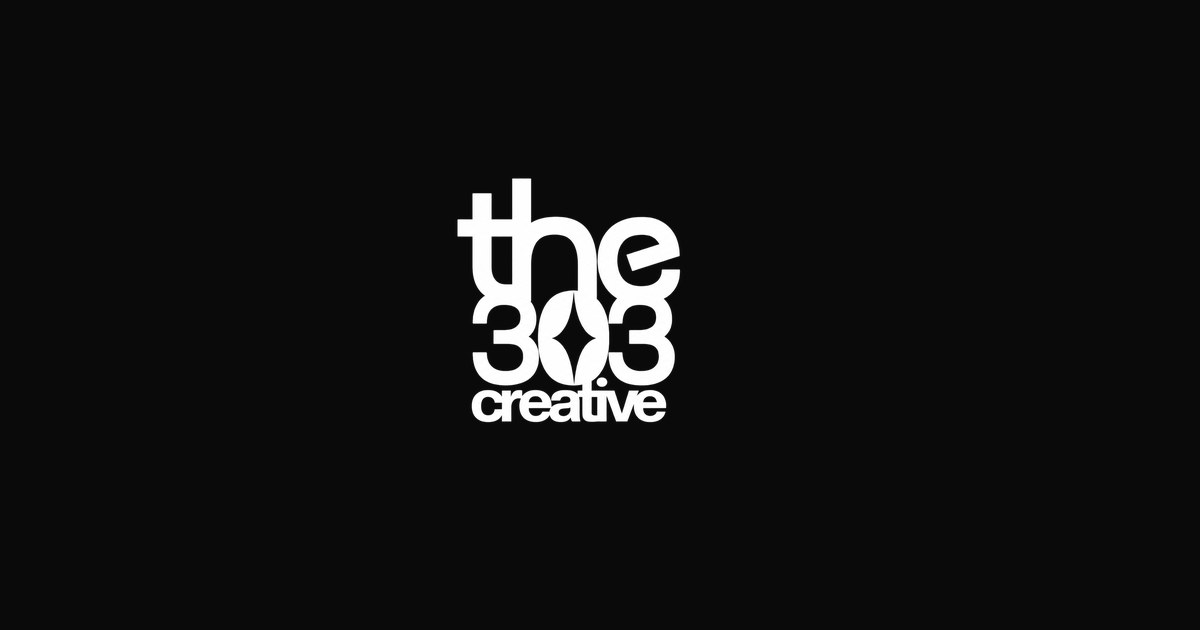
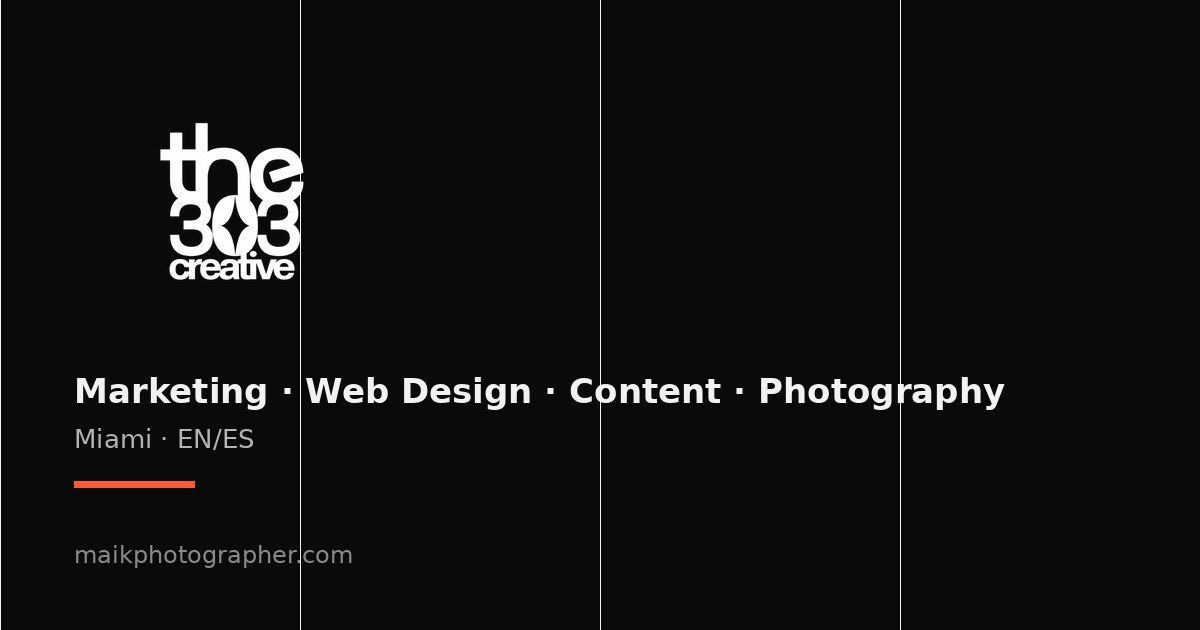
ok

diff --git a/public/client-structure.dc.html b/public/client-structure.dc.html
@@ -3,17 +3,17 @@
 <head>
 <meta charset="utf-8">
 <meta name="viewport" content="width=device-width, initial-scale=1">
-<title>Structure Men´s Studio — Content & Editorial in Miami | The303</title>
-<meta name="description" content="Case study: monthly content and Instagram editorials for Structure Men´s Studio, a premium grooming studio in Brickell, Miami.">
-<meta name="keywords" content="grooming content Miami, barbershop content Miami, editorial content, Brickell">
+<title>Structure Men´s Studio — #1 Scissor Cuts in Brickell (Case Study) | The303</title>
+<meta name="description" content="How The303 made Structure Men´s Studio the #1 studio for scissor cuts in Brickell — ranked first on Google and recommended by AI assistants — with brand content + local SEO.">
+<meta name="keywords" content="scissor cut Brickell, cortes con tijera Brickell, best barber Brickell, grooming Brickell Miami, mens grooming Miami">
 <meta name="robots" content="index,follow">
 <link rel="canonical" href="https://www.maikphotographer.com/client-structure.dc.html">
 <meta name="theme-color" content="#0A0A0A">
 <link rel="icon" type="image/png" sizes="32x32" href="/assets/brand/favicon-32.png">
 <link rel="icon" type="image/png" sizes="512x512" href="/assets/brand/favicon-512.png">
 <link rel="apple-touch-icon" href="/assets/brand/apple-touch-icon.png">
-<meta property="og:title" content="Structure Men´s Studio — Content & Editorial in Miami | The303">
-<meta property="og:description" content="Case study: monthly content and Instagram editorials for Structure Men´s Studio, a premium grooming studio in Brickell, Miami.">
+<meta property="og:title" content="Structure Men´s Studio — #1 Scissor Cuts in Brickell (Case Study) | The303">
+<meta property="og:description" content="How The303 made Structure Men´s Studio the #1 studio for scissor cuts in Brickell — ranked first on Google and recommended by AI assistants — with brand content + local SEO.">
 <meta property="og:type" content="article">
 <meta property="og:url" content="https://www.maikphotographer.com/client-structure.dc.html">
 <meta property="og:image" content="https://www.maikphotographer.com/assets/work/structure/cover.jpg">
@@ -46,7 +46,7 @@ a:hover{color:#FF5A36}
 <section data-screen-label="00 Portada" style="position:relative;z-index:1;padding:32px clamp(16px,3vw,48px) 0">
   <div style="display:flex;justify-content:space-between;gap:12px;font-family:'IBM Plex Mono',monospace;font-size:10px;letter-spacing:.08em;text-transform:uppercase;color:#8A8A87;margin-bottom:28px"><span>[00] — Caso / Contenido · Editorial</span><span>2026</span></div>
   <h1 style="margin:0;font-weight:600;font-stretch:112%;font-size:clamp(46px,14cqw,176px);line-height:.86;letter-spacing:-.045em;text-transform:uppercase">Structure<br><span style="color:#5C5C5A">Men´s Studio.</span></h1>
-  <div style="margin-top:20px;font-family:'IBM Plex Mono',monospace;font-size:12px;color:#FF5A36">Grooming masculino · Brickell, Miami</div>
+  <div style="margin-top:20px;font-family:'IBM Plex Mono',monospace;font-size:12px;color:#FF5A36">Grooming masculino · Brickell · #1 en cortes a tijera</div>
   <div style="display:grid;grid-template-columns:repeat(auto-fit,minmax(min(50%,160px),1fr));margin-top:28px;border-top:1px solid rgba(242,242,240,.2)">
     <div style="padding:12px 12px 14px 0;border-bottom:1px solid rgba(242,242,240,.14)"><div style="font-family:'IBM Plex Mono',monospace;font-size:9px;letter-spacing:.08em;text-transform:uppercase;color:#8A8A87">Sector</div><div style="margin-top:6px;font-size:15px;font-weight:500">Grooming / Barbería</div></div>
     <div style="padding:12px 12px 14px 0;border-bottom:1px solid rgba(242,242,240,.14)"><div style="font-family:'IBM Plex Mono',monospace;font-size:9px;letter-spacing:.08em;text-transform:uppercase;color:#8A8A87">Ciudad</div><div style="margin-top:6px;font-size:15px;font-weight:500">Brickell, Miami</div></div>
@@ -69,12 +69,31 @@ a:hover{color:#FF5A36}
     </div>
     <div style="border-top:1px solid rgba(242,242,240,.2);padding-top:14px">
       <div style="font-family:'IBM Plex Mono',monospace;font-size:10px;letter-spacing:.08em;text-transform:uppercase;color:#8A8A87">B — Respuesta</div>
-      <p style="margin:12px 0 0;font-size:17px;line-height:1.45;text-wrap:pretty">Montamos su producción de contenido mensual — fotografía del trabajo a tijera en acción — y una línea de editoriales de marca para Instagram con dirección de arte propia.</p>
+      <p style="margin:12px 0 0;font-size:17px;line-height:1.45;text-wrap:pretty">Combinamos dos estrategias: producción de <strong>contenido de marca</strong> mensual (fotografía del trabajo a tijera + editoriales para Instagram con dirección de arte) y una <strong>estrategia SEO local + AEO</strong> para su web. El resultado: Structure se posicionó como el <strong>#1 en cortes a tijera en Brickell</strong> — tanto en Google como en los asistentes de IA.</p>
     </div>
   </div>
 </section>
 
-<section data-screen-label="02 Alcance" style="position:relative;z-index:1;padding:88px clamp(16px,3vw,48px) 0">
+<section data-screen-label="Resultado" style="position:relative;z-index:1;padding:88px clamp(16px,3vw,48px) 0">
+  <div style="font-family:'IBM Plex Mono',monospace;font-size:10px;letter-spacing:.08em;text-transform:uppercase;color:#FF5A36;margin-bottom:16px">[R] Resultado ●</div>
+  <h2 style="margin:0 0 28px;font-weight:600;font-stretch:112%;font-size:clamp(36px,10cqw,120px);line-height:.88;letter-spacing:-.04em;text-transform:uppercase">#1 en Brickell<br><span style="color:#5C5C5A">cortes a tijera.</span></h2>
+  <div style="display:grid;grid-template-columns:repeat(auto-fit,minmax(min(100%,220px),1fr));border-top:1px solid rgba(242,242,240,.2);border-left:1px solid rgba(242,242,240,.14)">
+    <div style="padding:22px 16px 24px;border-right:1px solid rgba(242,242,240,.14);border-bottom:1px solid rgba(242,242,240,.14)"><div style="font-weight:600;font-stretch:112%;font-size:clamp(44px,12cqw,96px);line-height:.9;letter-spacing:-.04em;color:#FF5A36">#1</div><div style="font-family:'IBM Plex Mono',monospace;font-size:10px;letter-spacing:.06em;text-transform:uppercase;color:#8A8A87;margin-top:10px">Google — "cortes con tijera Brickell"</div></div>
+    <div style="padding:22px 16px 24px;border-right:1px solid rgba(242,242,240,.14);border-bottom:1px solid rgba(242,242,240,.14)"><div style="font-weight:600;font-stretch:112%;font-size:clamp(44px,12cqw,96px);line-height:.9;letter-spacing:-.04em;color:#FF5A36">#1</div><div style="font-family:'IBM Plex Mono',monospace;font-size:10px;letter-spacing:.06em;text-transform:uppercase;color:#8A8A87;margin-top:10px">Recomendado por IA · ChatGPT · Gemini · Claude · Perplexity</div></div>
+    <div style="padding:22px 16px 24px;border-right:1px solid rgba(242,242,240,.14);border-bottom:1px solid rgba(242,242,240,.14)"><div style="font-weight:600;font-stretch:112%;font-size:clamp(44px,12cqw,96px);line-height:.9;letter-spacing:-.04em">Mensual</div><div style="font-family:'IBM Plex Mono',monospace;font-size:10px;letter-spacing:.06em;text-transform:uppercase;color:#8A8A87;margin-top:10px">Sistema de contenido de marca activo</div></div>
+  </div>
+  <p style="margin:16px 0 0;font-size:15px;line-height:1.5;color:#B4B4B0;max-width:640px">Posicionamiento logrado con la estrategia de <strong style="color:#F2F2F0">contenido de marca + SEO local / AEO</strong> de The303. Cuando alguien busca dónde cortarse a tijera en Brickell — en Google o preguntándole a una IA — Structure aparece primero.</p>
+</section>
+
+<section data-screen-label="02 Estrategia" style="position:relative;z-index:1;padding:88px clamp(16px,3vw,48px) 0">
+  <div style="font-family:'IBM Plex Mono',monospace;font-size:10px;letter-spacing:.08em;text-transform:uppercase;color:#8A8A87;margin-bottom:20px">[02] Cómo lo hicimos •</div>
+  <div style="display:grid;grid-template-columns:repeat(auto-fit,minmax(min(100%,300px),1fr));gap:24px">
+    <div style="border-top:1px solid rgba(242,242,240,.2);padding-top:14px"><div style="font-family:'IBM Plex Mono',monospace;font-size:10px;letter-spacing:.08em;text-transform:uppercase;color:#8A8A87">A — Contenido de marca</div><p style="margin:12px 0 0;font-size:16px;line-height:1.5">Producción mensual: fotografía del trabajo a tijera y editoriales para Instagram con dirección de arte. Contenido constante que construye autoridad de marca y da material para publicar.</p></div>
+    <div style="border-top:1px solid rgba(242,242,240,.2);padding-top:14px"><div style="font-family:'IBM Plex Mono',monospace;font-size:10px;letter-spacing:.08em;text-transform:uppercase;color:#8A8A87">B — SEO local + AEO</div><p style="margin:12px 0 0;font-size:16px;line-height:1.5">Web optimizada por intención, contenido experto y señales de entidad para que Google — y los asistentes de IA — reconozcan a Structure como el estudio de cortes a tijera de referencia en Brickell.</p></div>
+  </div>
+</section>
+
+<section data-screen-label="03 Alcance" style="position:relative;z-index:1;padding:88px clamp(16px,3vw,48px) 0">
   <div style="font-family:'IBM Plex Mono',monospace;font-size:10px;letter-spacing:.08em;text-transform:uppercase;color:#8A8A87;margin-bottom:16px">[02] Alcance •</div>
   <div style="display:flex;flex-direction:column;border-top:1px solid rgba(242,242,240,.2)">
     <div style="display:grid;grid-template-columns:48px minmax(0,1fr) auto;gap:12px;align-items:baseline;padding:16px 0;border-bottom:1px solid rgba(242,242,240,.14)"><span style="font-family:'IBM Plex Mono',monospace;font-size:10px;color:#8A8A87">01.</span><span style="font-weight:600;font-stretch:112%;font-size:clamp(22px,5cqw,40px);letter-spacing:-.03em;text-transform:uppercase;line-height:1">Contenido mensual</span><span style="font-family:'IBM Plex Mono',monospace;font-size:10px;color:#8A8A87">•</span></div>

diff --git a/public/Work.dc.html b/public/Work.dc.html
@@ -16,7 +16,7 @@
 <meta property="og:description" content="Real projects for Miami brands and businesses — branding, web, content and photography, with the problem, the work and the deliverables for each.">
 <meta property="og:type" content="website">
 <meta property="og:url" content="https://www.maikphotographer.com/Work.dc.html">
-<meta property="og:image" content="https://www.maikphotographer.com/assets/backgrounds/31_fondo_ia1_oscuro_principal.jpg">
+<meta property="og:image" content="https://www.maikphotographer.com/assets/brand/og-the303.jpg">
 <meta name="twitter:card" content="summary_large_image">
 <script src="./support.js"></script>
 </head>
@@ -116,11 +116,11 @@ const SHOTS = [['editorial','Warm light'],['portrait','Golden circle'],['lifesty
 const T = {
 en:{eyebrow:'Work / Cases',h1a:'Work that',h1b:'books clients.',intro:'Each case is measured by what it produced for the business: leads, bookings, sales. Metrics are published only once verified with the client.',
 cases:'Cases',imgPending:'Image pending',yours:'Your brand here',pendingNote:'',
-cs:[{name:"D´Homes",meta:'Real estate · Branding · Miami',tags:['Portraits','Branding','Editorial'],href:'client-dhomes.dc.html',img:'/assets/work/dhomes/cover.jpg'},{name:'Good Trip',meta:'Travel · Branding + Web · LATAM',tags:['Branding','Web','Content'],href:'client-good-trip.dc.html',img:'/assets/work/good-trip/cover.jpg'},{name:'Structure',meta:'Grooming · Content · Miami',tags:['Content','Editorial','Photo'],href:'client-structure.dc.html',img:'/assets/work/structure/cover.jpg'},{name:'Moses',meta:'Grooming · Web design · Miami',tags:['Web','Design','Branding'],href:'client-moses.dc.html',img:'/assets/work/moses/cover.jpg'},{name:'Sazón Latino',meta:'Content creation · Photo · Miami',tags:['Content creation','Photo','Editorial'],href:'client-sazon-latino.dc.html',img:'/assets/work/sazon-latino/cover.jpg'},{name:'Titi & Maddi',meta:'Music · Session + BTS · Miami',tags:['Music','Session','Content'],href:'client-titi-maddi.dc.html',img:'/assets/work/titi-maddi/cover.jpg'},{name:'Monrowelle',meta:'Retail · Catalog + Content · Perú',tags:['Content','Catalog','Product'],href:'client-monrowelle.dc.html',img:'/assets/work/monrowelle/cover.jpg'},{name:'Sculpt x Strength',meta:'Fitness · Content · Miami',tags:['Fitness','Lifestyle','Content'],href:'client-sculpt.dc.html',img:'/assets/work/sculpt/cover.jpg'}],
+cs:[{name:'Structure',meta:'Grooming · #1 scissor cuts in Brickell',tags:['#1 in Brickell','Content','SEO'],href:'client-structure.dc.html',img:'/assets/work/structure/cover.jpg'},{name:"D´Homes",meta:'Real estate · Branding · Miami',tags:['Portraits','Branding','Editorial'],href:'client-dhomes.dc.html',img:'/assets/work/dhomes/cover.jpg'},{name:'Good Trip',meta:'Travel · Branding + Web · LATAM',tags:['Branding','Web','Content'],href:'client-good-trip.dc.html',img:'/assets/work/good-trip/cover.jpg'},{name:'Moses',meta:'Grooming · Web design · Miami',tags:['Web','Design','Branding'],href:'client-moses.dc.html',img:'/assets/work/moses/cover.jpg'},{name:'Sazón Latino',meta:'Content creation · Photo · Miami',tags:['Content creation','Photo','Editorial'],href:'client-sazon-latino.dc.html',img:'/assets/work/sazon-latino/cover.jpg'},{name:'Titi & Maddi',meta:'Music · Session + BTS · Miami',tags:['Music','Session','Content'],href:'client-titi-maddi.dc.html',img:'/assets/work/titi-maddi/cover.jpg'},{name:'Monrowelle',meta:'Retail · Catalog + Content · Perú',tags:['Content','Catalog','Product'],href:'client-monrowelle.dc.html',img:'/assets/work/monrowelle/cover.jpg'},{name:'Sculpt x Strength',meta:'Fitness · Content · Miami',tags:['Fitness','Lifestyle','Content'],href:'client-sculpt.dc.html',img:'/assets/work/sculpt/cover.jpg'}],
 kpiNames:[],gallery:'Gallery',gA:'Frames',gB:'in color.',filters:{all:'All',portrait:'Portrait',editorial:'Editorial',lifestyle:'Lifestyle'}},
 es:{eyebrow:'Trabajo / Casos',h1a:'Trabajo que',h1b:'consigue clientes.',intro:'Cada caso se mide por lo que produjo para el negocio: leads, reservas, ventas. Las métricas se publican solo cuando el cliente las verifica.',
 cases:'Casos',imgPending:'Imagen pendiente',yours:'Tu marca aquí',pendingNote:'',
-cs:[{name:"D´Homes",meta:'Real estate · Branding · Miami',tags:['Retratos','Branding','Editorial'],href:'client-dhomes.dc.html',img:'/assets/work/dhomes/cover.jpg'},{name:'Good Trip',meta:'Viajes · Branding + Web · LATAM',tags:['Branding','Web','Contenido'],href:'client-good-trip.dc.html',img:'/assets/work/good-trip/cover.jpg'},{name:'Structure',meta:'Grooming · Contenido · Miami',tags:['Contenido','Editorial','Foto'],href:'client-structure.dc.html',img:'/assets/work/structure/cover.jpg'},{name:'Moses',meta:'Grooming · Diseño web · Miami',tags:['Web','Diseño','Branding'],href:'client-moses.dc.html',img:'/assets/work/moses/cover.jpg'},{name:'Sazón Latino',meta:'Creación de contenido · Foto · Miami',tags:['Creación de contenido','Foto','Editorial'],href:'client-sazon-latino.dc.html',img:'/assets/work/sazon-latino/cover.jpg'},{name:'Titi & Maddi',meta:'Música · Sesión + BTS · Miami',tags:['Música','Sesión','Contenido'],href:'client-titi-maddi.dc.html',img:'/assets/work/titi-maddi/cover.jpg'},{name:'Monrowelle',meta:'Retail · Catálogo + Contenido · Perú',tags:['Contenido','Catálogo','Producto'],href:'client-monrowelle.dc.html',img:'/assets/work/monrowelle/cover.jpg'},{name:'Sculpt x Strength',meta:'Fitness · Contenido · Miami',tags:['Fitness','Lifestyle','Contenido'],href:'client-sculpt.dc.html',img:'/assets/work/sculpt/cover.jpg'}],
+cs:[{name:'Structure',meta:'Grooming · #1 cortes a tijera en Brickell',tags:['#1 en Brickell','Contenido','SEO'],href:'client-structure.dc.html',img:'/assets/work/structure/cover.jpg'},{name:"D´Homes",meta:'Real estate · Branding · Miami',tags:['Retratos','Branding','Editorial'],href:'client-dhomes.dc.html',img:'/assets/work/dhomes/cover.jpg'},{name:'Good Trip',meta:'Viajes · Branding + Web · LATAM',tags:['Branding','Web','Contenido'],href:'client-good-trip.dc.html',img:'/assets/work/good-trip/cover.jpg'},{name:'Moses',meta:'Grooming · Diseño web · Miami',tags:['Web','Diseño','Branding'],href:'client-moses.dc.html',img:'/assets/work/moses/cover.jpg'},{name:'Sazón Latino',meta:'Creación de contenido · Foto · Miami',tags:['Creación de contenido','Foto','Editorial'],href:'client-sazon-latino.dc.html',img:'/assets/work/sazon-latino/cover.jpg'},{name:'Titi & Maddi',meta:'Música · Sesión + BTS · Miami',tags:['Música','Sesión','Contenido'],href:'client-titi-maddi.dc.html',img:'/assets/work/titi-maddi/cover.jpg'},{name:'Monrowelle',meta:'Retail · Catálogo + Contenido · Perú',tags:['Contenido','Catálogo','Producto'],href:'client-monrowelle.dc.html',img:'/assets/work/monrowelle/cover.jpg'},{name:'Sculpt x Strength',meta:'Fitness · Contenido · Miami',tags:['Fitness','Lifestyle','Contenido'],href:'client-sculpt.dc.html',img:'/assets/work/sculpt/cover.jpg'}],
 gallery:'Galería',gA:'Fotogramas',gB:'a color.',filters:{all:'Todo',portrait:'Retrato',editorial:'Editorial',lifestyle:'Lifestyle'}}
 };
 class Component extends DCLogic {

diff --git a/public/Card.dc.html b/public/Card.dc.html
@@ -15,7 +15,7 @@
 <meta property="og:description" content="The303 / Maikel Marshall — Miami. Book, call, save contact.">
 <meta property="og:type" content="website">
 <meta property="og:url" content="https://www.maikphotographer.com/Card.dc.html">
-<meta property="og:image" content="https://www.maikphotographer.com/assets/backgrounds/31_fondo_ia1_oscuro_principal.jpg">
+<meta property="og:image" content="https://www.maikphotographer.com/assets/brand/og-the303.jpg">
 <meta name="twitter:card" content="summary_large_image">
 <script src="./support.js"></script>
 </head>
@@ -59,6 +59,20 @@ a:hover{color:#FF5A36}
     <div style="margin-top:12px;font-family:'IBM Plex Mono',monospace;font-size:11px;letter-spacing:.06em;text-transform:uppercase">{{ t.role }}</div>
   </div>
 
+  <div style="position:relative">
+    <p style="margin:0 0 12px;font-size:16px;line-height:1.45;color:#F2F2F0">{{ t.tagline }}</p>
+    <div style="display:flex;flex-wrap:wrap;gap:6px">
+      <sc-for list="{{ do }}" as="d" hint-placeholder-count="4">
+        <span style="font-family:'IBM Plex Mono',monospace;font-size:10px;letter-spacing:.06em;text-transform:uppercase;color:#B4B4B0;border:1px solid rgba(242,242,240,.25);padding:6px 10px">{{ d }}</span>
+      </sc-for>
+    </div>
+  </div>
+
+  <a href="Work.dc.html" style="position:relative;display:block;border:1px solid rgba(255,90,54,.5);padding:16px;background:rgba(255,90,54,.06)">
+    <div style="font-family:'IBM Plex Mono',monospace;font-size:9px;letter-spacing:.08em;text-transform:uppercase;color:#FF5A36;margin-bottom:8px">{{ t.proofK }} ●</div>
+    <div style="font-size:15px;line-height:1.45">{{ t.proof }}</div>
+  </a>
+
   <a href="{{ vcard }}" download="Maikel-Marshall.vcf" style="position:relative;display:flex;justify-content:space-between;align-items:center;height:60px;padding:0 18px;background:#F2F2F0;color:#0A0A0A;font-weight:600;font-size:14px;text-transform:uppercase;letter-spacing:.02em" style-hover="background:#FF5A36;color:#0A0A0A"><span>{{ t.save }}</span><span>↓</span></a>
 
   <div style="position:relative;border-top:1px solid rgba(242,242,240,.3)">
@@ -77,8 +91,20 @@ a:hover{color:#FF5A36}
 </x-dc>
 <script type="text/x-dc" data-dc-script data-props="{&quot;$preview&quot;:{&quot;width&quot;:390,&quot;height&quot;:844},&quot;lang&quot;:{&quot;editor&quot;:&quot;enum&quot;,&quot;options&quot;:[&quot;en&quot;,&quot;es&quot;],&quot;default&quot;:&quot;en&quot;,&quot;tsType&quot;:&quot;'en'|'es'&quot;}}">
 const T = {
-  en:{role:'Founder · The303 content & brand studio',save:'Save contact',l:['WhatsApp','Email','Instagram','Website','Free audit','Book a call']},
-  es:{role:'Fundador · The303 estudio de contenido y marca',save:'Guardar contacto',l:['WhatsApp','Email','Instagram','Web','Auditoría gratis','Reservar llamada']}
+  en:{role:'Founder · The303 Creative · Miami',
+      tagline:'We build marketing, websites, content and photography for Miami businesses — and get them found.',
+      do:['Marketing','Web design','Content','Photography'],
+      proofK:'Proven result',
+      proof:'Structure Men´s Studio — ranked #1 for scissor cuts in Brickell on Google and on AI assistants, with our brand-content + SEO strategy.',
+      save:'Save contact',
+      l:['WhatsApp','Book a 30-min call','See our work','Website','Instagram']},
+  es:{role:'Fundador · The303 Creative · Miami',
+      tagline:'Hacemos marketing, webs, contenido y fotografía para negocios de Miami — y los posicionamos.',
+      do:['Marketing','Diseño web','Contenido','Fotografía'],
+      proofK:'Resultado comprobado',
+      proof:'Structure Men´s Studio — #1 en cortes a tijera en Brickell en Google y en asistentes de IA, con nuestra estrategia de contenido de marca + SEO.',
+      save:'Guardar contacto',
+      l:['WhatsApp','Reservar llamada 30 min','Ver nuestro trabajo','Web','Instagram']}
 };
 const VCF = 'BEGIN:VCARD\nVERSION:3.0\nFN:Maikel Marshall\nORG:The303\nTITLE:Founder / Creative Director\nTEL;TYPE=CELL:+17863329815\nEMAIL:maikelmarshall07@gmail.com\nURL:https://www.maikphotographer.com\nADR:;;;Miami;FL;;USA\nEND:VCARD';
 class Component extends DCLogic {
@@ -88,8 +114,9 @@ class Component extends DCLogic {
     const lang = this.state.lang ?? this.props.lang ?? 'en';
     const t = T[lang];
     const pill = a => ({background: a ? '#F2F2F0' : 'transparent', color: a ? '#0A0A0A' : '#8A8A87', border:0, padding:'0 9px', height:30, cursor:'pointer', fontFamily:'inherit', fontSize:10});
-    const vals = [['+1 786 332 9815','https://wa.me/17863329815'],['maikelmarshall07@gmail.com','mailto:maikelmarshall07@gmail.com'],['@maik_photographer','https://www.instagram.com/maik_photographer/'],['maikphotographer.com','./'],['$0 · 3 recommendations','Contact.dc.html#audit'],['30 min','Contact.dc.html']];
+    const vals = [['+1 786 332 9815','https://wa.me/17863329815'],['30 min with Maikel','Contact.dc.html'],['8+ Miami brands','Work.dc.html'],['maikphotographer.com','./'],['@maik_photographer','https://www.instagram.com/maik_photographer/']];
     return { t, lang, setEn: () => this.setLang('en'), setEs: () => this.setLang('es'), enStyle: pill(lang==='en'), esStyle: pill(lang==='es'),
+      do: t.do, tagline: t.tagline, proofK: t.proofK, proof: t.proof,
       vcard: 'data:text/vcard;charset=utf-8,' + encodeURIComponent(VCF),
       links: t.l.map((label,i) => ({label, value: vals[i][0], href: vals[i][1], n:'0'+(i+1)})) };
   }

diff --git a/public/Home.dc.html b/public/Home.dc.html
@@ -56,10 +56,10 @@ input::placeholder{color:#5C5C5A}
   <div style="position:relative;display:grid;grid-template-columns:repeat(4,minmax(0,1fr));gap:0;margin-top:28px;max-width:760px;border-top:1px solid rgba(242,242,240,.14)">
     <div style="grid-column:1 / span 3;aspect-ratio:4/5;position:relative;overflow:hidden;background:#161616;margin-top:16px">
       <sc-if value="{{ heroVideo }}" hint-placeholder-val="{{ true }}">
-        <video src="https://www.maikphotographer.com/assets/videos/40_hero_camara_loop.mp4" poster="https://www.maikphotographer.com/assets/backgrounds/31_fondo_ia1_oscuro_principal.jpg" autoplay="" muted="" loop="" playsinline="" style="{{ mediaStyle }}"></video>
+        <video src="https://www.maikphotographer.com/assets/videos/40_hero_camara_loop.mp4" poster="https://www.maikphotographer.com/assets/brand/og-the303.jpg" autoplay="" muted="" loop="" playsinline="" style="{{ mediaStyle }}"></video>
       </sc-if>
       <sc-if value="{{ noHeroVideo }}" hint-placeholder-val="{{ false }}">
-        <img src="https://www.maikphotographer.com/assets/backgrounds/31_fondo_ia1_oscuro_principal.jpg" alt="" style="{{ mediaStyle }}">
+        <img src="https://www.maikphotographer.com/assets/brand/og-the303.jpg" alt="" style="{{ mediaStyle }}">
       </sc-if>
       <div style="position:absolute;left:10px;top:10px;font-family:'IBM Plex Mono',monospace;font-size:9px;letter-spacing:.08em;color:#F2F2F0;text-transform:uppercase">▶ REEL_2026.MP4</div>
       <div style="position:absolute;left:10px;right:10px;bottom:10px;display:flex;align-items:center;gap:8px;font-family:'IBM Plex Mono',monospace;font-size:9px;color:#F2F2F0">

diff --git a/public/Services.dc.html b/public/Services.dc.html
@@ -16,7 +16,7 @@
 <meta property="og:description" content="Marketing, web design, local SEO and content creation for Miami service businesses — built to turn attention into qualified inquiries and bookings.">
 <meta property="og:type" content="website">
 <meta property="og:url" content="https://www.maikphotographer.com/Services.dc.html">
-<meta property="og:image" content="https://www.maikphotographer.com/assets/backgrounds/31_fondo_ia1_oscuro_principal.jpg">
+<meta property="og:image" content="https://www.maikphotographer.com/assets/brand/og-the303.jpg">
 <meta name="twitter:card" content="summary_large_image">
 <script src="./support.js"></script>
 </head>

diff --git a/public/Contact.dc.html b/public/Contact.dc.html
@@ -16,7 +16,7 @@
 <meta property="og:description" content="Tell us what your business needs — marketing, a website or content. We confirm scope and next steps before you commit. Miami, WhatsApp, EN and ES.">
 <meta property="og:type" content="website">
 <meta property="og:url" content="https://www.maikphotographer.com/Contact.dc.html">
-<meta property="og:image" content="https://www.maikphotographer.com/assets/backgrounds/31_fondo_ia1_oscuro_principal.jpg">
+<meta property="og:image" content="https://www.maikphotographer.com/assets/brand/og-the303.jpg">
 <meta name="twitter:card" content="summary_large_image">
 <script src="./support.js"></script>
 </head>

diff --git a/public/About.dc.html b/public/About.dc.html
@@ -16,7 +16,7 @@
 <meta property="og:description" content="The303 Creative is a Miami marketing and production studio led by founder Maikel Marshall. Our process, roles and how we work with local businesses.">
 <meta property="og:type" content="website">
 <meta property="og:url" content="https://www.maikphotographer.com/About.dc.html">
-<meta property="og:image" content="https://www.maikphotographer.com/assets/backgrounds/31_fondo_ia1_oscuro_principal.jpg">
+<meta property="og:image" content="https://www.maikphotographer.com/assets/brand/og-the303.jpg">
 <meta name="twitter:card" content="summary_large_image">
 <script src="./support.js"></script>
 </head>

diff --git a/public/Pricing.dc.html b/public/Pricing.dc.html
@@ -16,7 +16,7 @@
 <meta property="og:description" content="Transparent pricing for one-off projects and monthly programs — what is included, extras, usage rights and revisions. Miami, EN and ES.">
 <meta property="og:type" content="website">
 <meta property="og:url" content="https://www.maikphotographer.com/Pricing.dc.html">
-<meta property="og:image" content="https://www.maikphotographer.com/assets/backgrounds/31_fondo_ia1_oscuro_principal.jpg">
+<meta property="og:image" content="https://www.maikphotographer.com/assets/brand/og-the303.jpg">
 <meta name="twitter:card" content="summary_large_image">
 <script src="./support.js"></script>
 </head>

diff --git a/public/ClientPortfolio.dc.html b/public/ClientPortfolio.dc.html
@@ -15,7 +15,7 @@
 <meta property="og:description" content="Cómo trabajamos el contenido, la marca y el crecimiento de nuestros clientes en Miami — un caso real de The303.">
 <meta property="og:type" content="article">
 <meta property="og:url" content="https://www.maikphotographer.com/ClientPortfolio.dc.html">
-<meta property="og:image" content="https://www.maikphotographer.com/assets/backgrounds/31_fondo_ia1_oscuro_principal.jpg">
+<meta property="og:image" content="https://www.maikphotographer.com/assets/brand/og-the303.jpg">
 <meta name="twitter:card" content="summary_large_image">
 <script src="./support.js"></script>
 </head>

diff --git a/public/Journal.dc.html b/public/Journal.dc.html
@@ -16,7 +16,7 @@
 <meta property="og:description" content="Practical guides on marketing, content, web and photography to help Miami businesses plan their next project.">
 <meta property="og:type" content="website">
 <meta property="og:url" content="https://www.maikphotographer.com/Journal.dc.html">
-<meta property="og:image" content="https://www.maikphotographer.com/assets/backgrounds/31_fondo_ia1_oscuro_principal.jpg">
+<meta property="og:image" content="https://www.maikphotographer.com/assets/brand/og-the303.jpg">
 <meta name="twitter:card" content="summary_large_image">
 <script src="./support.js"></script>
 </head>

diff --git a/public/JournalArticle.dc.html b/public/JournalArticle.dc.html
@@ -15,7 +15,7 @@
 <meta property="og:description" content="Content, marketing and growth notes from The303, Miami.">
 <meta property="og:type" content="website">
 <meta property="og:url" content="https://www.maikphotographer.com/JournalArticle.dc.html">
-<meta property="og:image" content="https://www.maikphotographer.com/assets/backgrounds/31_fondo_ia1_oscuro_principal.jpg">
+<meta property="og:image" content="https://www.maikphotographer.com/assets/brand/og-the303.jpg">
 <meta name="twitter:card" content="summary_large_image">
 <script src="./support.js"></script>
 </head>

diff --git a/PROYECTO-THE303.md b/PROYECTO-THE303.md
@@ -67,6 +67,7 @@
 ## CHANGELOG (agregar una línea por cada actualización)
 - 2026-09-27 — Creado este archivo de contexto. Desplegada `the303.html` (home nueva brutalista, bilingüe) + `support.js`; fotos cambiadas de B/N a color. Confirmadas integraciones existentes: Mariela (n8n), Cal.com (`the303-marketing-kmfxzs/30min`), `/api/contact`.
 - 2026-09-27 — Integrado el sitio COMPLETO de Claude Design en `public/`: páginas `Home/Services/Work/About/Pricing/Journal/Journal Article/Contact/Card.dc.html` + componentes `SiteHeader/SiteFooter/AuditBlock.dc.html` (runtime DC `support.js`, COMPONENT_DIR="."). Cableado: form→`/api/contact` (default en AuditBlock), Cal.com embed en Contact (`#cal-embed`), widget Mariela en las 8 páginas, SEO head + assets en `public/uploads/`. NOTA: navegación enlaza por `Nombre.dc.html`. `index.html` NO se tocó todavía (revisar en `/Home.dc.html` y luego promover Home→index).
+- 2026-09-28 — **Preview al compartir + tarjeta tap + caso Structure.** (1) OG rediseñada `assets/brand/og-the303.jpg` (logo + "Marketing · Web Design · Content · Photography · Miami") aplicada a TODAS las páginas núcleo (antes salía la imagen abstracta al compartir). (2) `Card.dc.html` (/card, tarjeta NFC): añadido bloque "qué hacemos" (chips) + callout de resultado (Structure #1) y links reordenados a valor (WhatsApp, reservar, ver trabajo, web, IG); quitado el confuso "$0 · 3 recommendations". (3) **Caso Structure convertido en flagship**: secciones RESULTADO (#1 Google + #1 IA en "cortes con tijera Brickell") y ESTRATEGIA (contenido de marca + SEO local/AEO); movido al PRIMER lugar en Work con tag "#1 in Brickell"; title/desc/keywords al resultado. PENDIENTE: pantallazos de prueba (Gemini #1) — dejar en `CLIENTES_WEB/Structure Men´s Studio/proof/` para incrustarlos (los pegados en chat y `Documents\Codex` no son accesibles).
 - 2026-09-28 — **Posicionamiento SEO + AEO (Fase 2) implementado.** Landings dedicadas: `web-design-miami`, `local-seo-miami`, `content-creation-miami` (contenido real + Service/FAQPage/Breadcrumb JSON-LD + URLs limpias en vercel). Página `faq.dc.html` (FAQPage schema). 8 casos: título/desc/keywords únicos + BreadcrumbList + CreativeWork. Home: WebSite + ProfessionalService schema. Creado `llms.txt` (para IA) y `404.html` de marca. Sitemap 20 URLs. Enlazado interno: footer global (col1 + Web/Local SEO/Content, col2 + FAQ) + sección "Explore by service" en Services + landings→casos. robots ya permite GPTBot/ClaudeBot/PerplexityBot/OAI-SearchBot. **Off-page (depende de Maikel):** `02_BRANDS/the303/estrategia-seo/CHECKLIST_OffPage_SEO.md` (GBP, reseñas, GSC/Bing, citaciones, backlinks). NOTA honesta: el #1 no se garantiza; falta autoridad/GBP/reseñas. Siguientes fases del xlsx: landings de fotografía, versiones ES, /industries, /locations/brickell.
 - 2026-09-28 — **SEO alineado a la estrategia de mercado.** Aplicados title/description/keywords + OG por página (Home, Services, Work, About, Pricing, Journal, Contact) según `estrategia-seo/` (copia en `02_BRANDS/the303/estrategia-seo/`: The303_Estrategia_Miami.docx + The303_Matrices_SEO_Miami.xlsx). Home: title "The303 Creative Miami | Marketing, Web Design & Photography" + JSON-LD `ProfessionalService` (fundador Maikel Marshall, Miami, tel/IG/servicios) en index + Home. Intención por página: Services→hub marketing (marketing/web/local SEO/content), Work→casos, Pricing→P0 precios reales, Contact→cualificar. **Fase 2 pendiente del análisis (no hecho aún):** landings dedicadas por servicio (`/web-design-miami`, `/local-seo-miami`, `/content-creation-miami`, `/photography/*`), sección FAQ de objeciones, hero "dos rutas" (más consultas vs foto/contenido), versiones ES de páginas de contratación, GBP verificado. El xlsx trae 435 keywords + 73 rutas + journeys por segmento.
 - 2026-09-28 — **Logo oficial The303 aplicado.** Fuente: `02_BRANDS/the303/brand-identity/the303-creative-mejorado.png` (blanco s/ negro, sin alfa). Generé versión transparente `public/assets/brand/the303-logo.png` (blanco, fondo transparente, recortado) + favicons (`favicon-32/512`, `apple-touch-icon`) + `og-the303.jpg` (1200×630). Colocado en el **header** (reemplaza el texto "THE303", alto 42px, en todas las páginas vía SiteHeader), **favicon** en las 19 páginas, y **OG** del home (index + Home). Footer conserva el wordmark tipográfico gigante (decisión de diseño). Regenerar logo → clave el negro a alfa por luminancia.
